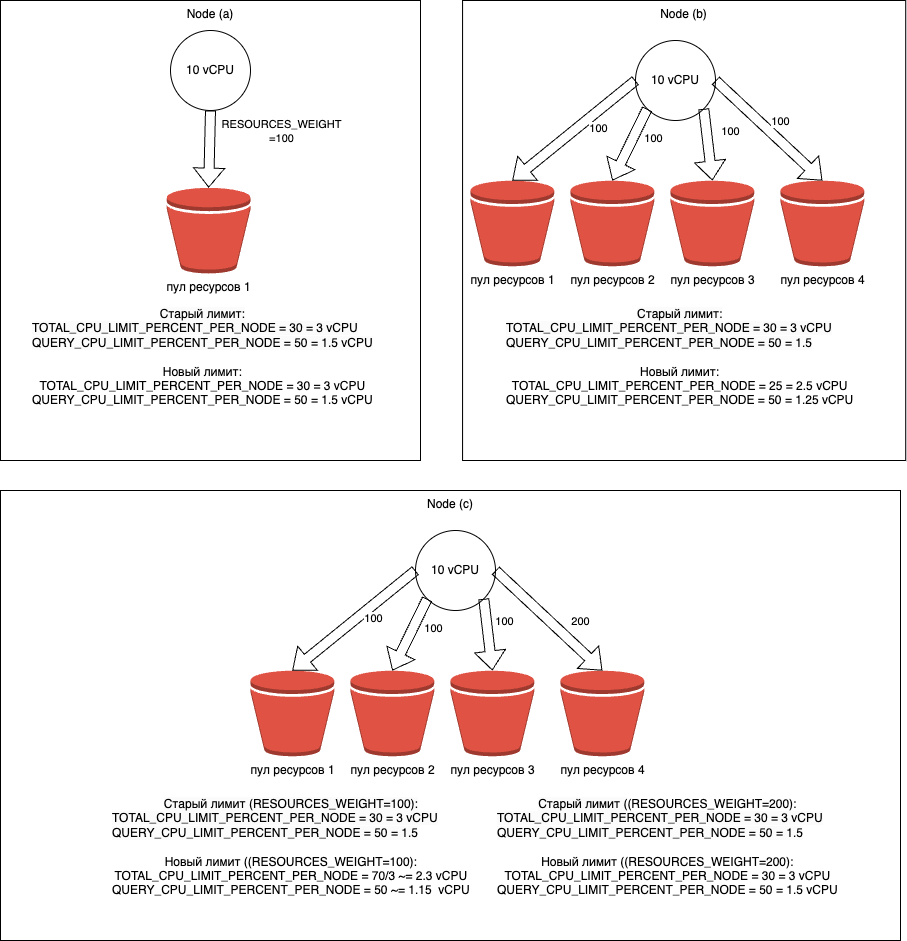
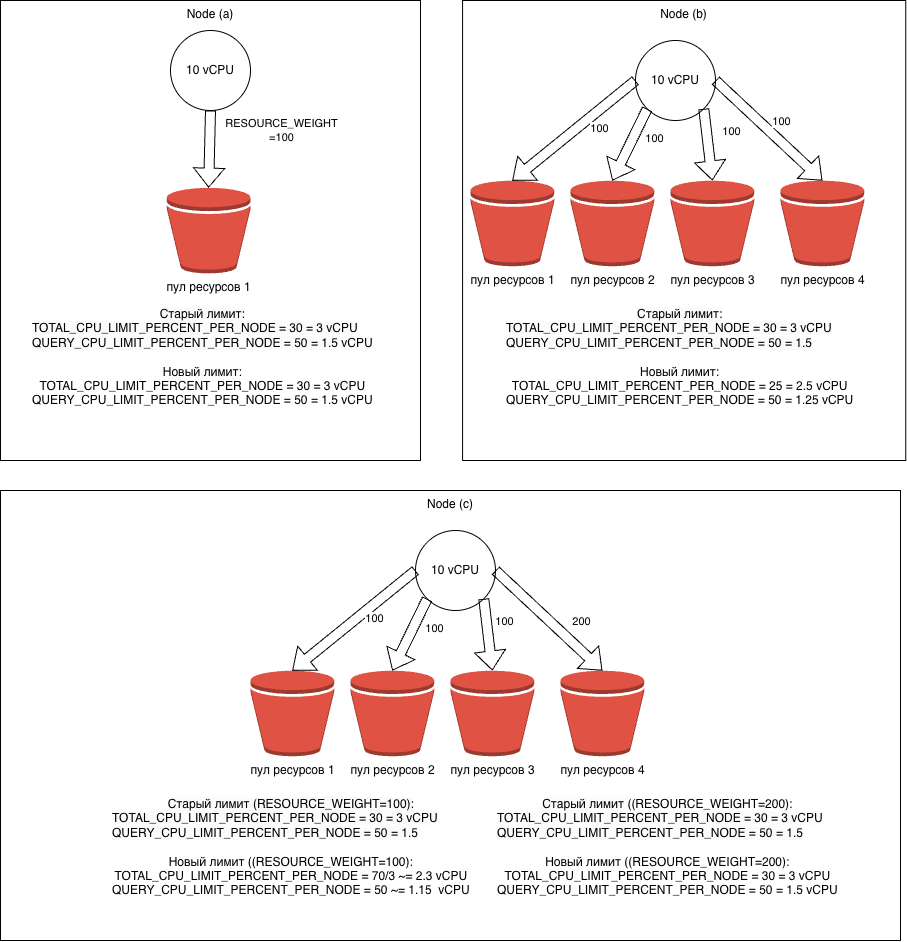
YDBDOCS-2562: fix resourceS_weight to resource_weight

diff --git a/ydb/docs/en/core/dev/resource-consumption-management.md b/ydb/docs/en/core/dev/resource-consumption-management.md
@@ -23,14 +23,14 @@ CREATE RESOURCE POOL olap WITH (
     CONCURRENT_QUERY_LIMIT=10,
     QUEUE_SIZE=1000,
     DATABASE_LOAD_CPU_THRESHOLD=80,
-    RESOURCES_WEIGHT=100,
+    RESOURCE_WEIGHT=100,
     QUERY_CPU_LIMIT_PERCENT_PER_NODE=50,
     TOTAL_CPU_LIMIT_PERCENT_PER_NODE=70
 )
 ```
 
 
-You can find the full list of resource pool parameters in the [{#T}](../yql/reference/syntax/create-resource-pool.md#parameters) reference. Some parameters are global for the entire database (for example, `CONCURRENT_QUERY_LIMIT`, `QUEUE_SIZE`, `DATABASE_LOAD_CPU_THRESHOLD`), while others apply only to a single compute node (for example, `QUERY_CPU_LIMIT_PERCENT_PER_NODE`, `TOTAL_CPU_LIMIT_PERCENT_PER_NODE`, `TOTAL_MEMORY_LIMIT_PERCENT_PER_NODE`). CPU can be shared among all pools in case of oversubscription on a single compute node using `RESOURCES_WEIGHT`.
+You can find the full list of resource pool parameters in the [{#T}](../yql/reference/syntax/create-resource-pool.md#parameters) reference. Some parameters are global for the entire database (for example, `CONCURRENT_QUERY_LIMIT`, `QUEUE_SIZE`, `DATABASE_LOAD_CPU_THRESHOLD`), while others apply only to a single compute node (for example, `QUERY_CPU_LIMIT_PERCENT_PER_NODE`, `TOTAL_CPU_LIMIT_PERCENT_PER_NODE`, `TOTAL_MEMORY_LIMIT_PERCENT_PER_NODE`). CPU can be shared among all pools in case of oversubscription on a single compute node using `RESOURCE_WEIGHT`.
 
 ![resource_pools](../_assets/resource_pool.png)
 
@@ -68,18 +68,18 @@ When a query enters a resource pool for which `DATABASE_LOAD_CPU_THRESHOLD` is s
 
 As with `CONCURRENT_QUERY_LIMIT`, when the specified load threshold is exceeded, queries are sent to the waiting queue.
 
-### Resource allocation according to RESOURCES_WEIGHT {#resources_weight}
+### Resource allocation according to RESOURCE_WEIGHT {#resources_weight}
 
 ![resource_pools](../_assets/resources_weight.png)
 
-The `RESOURCES_WEIGHT` parameter only takes effect in case of oversubscription and when there is more than one resource pool in the system. In the current implementation, `RESOURCES_WEIGHT` only affects the allocation of `vCPU` resources. When queries appear in a resource pool, it starts participating in resource allocation. For this, the pools recalculate their limits according to the [Max-min fairness](https://en.wikipedia.org/wiki/Max-min_fairness) algorithm. The actual resource redistribution is performed on each compute node individually, as shown in the figure above.
+The `RESOURCE_WEIGHT` parameter only takes effect in case of oversubscription and when there is more than one resource pool in the system. In the current implementation, `RESOURCE_WEIGHT` only affects the allocation of `vCPU` resources. When queries appear in a resource pool, it starts participating in resource allocation. For this, the pools recalculate their limits according to the [Max-min fairness](https://en.wikipedia.org/wiki/Max-min_fairness) algorithm. The actual resource redistribution is performed on each compute node individually, as shown in the figure above.
 
 Suppose we have a node in the system with $10 vCPU$ available. The following limits are set:
 
 - $TOTAL_CPU_LIMIT_PERCENT_PER_NODE = 30$,
 - $QUERY_CPU_LIMIT_PERCENT_PER_NODE = 50$.
 
-In this case, the resource pool will have a limit of $3 vCPU$ per node and $1.5 vCPU$ per query in this pool (figure *a*). If there are 4 such pools in the system and they all try to use maximum resources, this would amount to $12 vCPU$, which exceeds the limit of available resources on the node ($10 vCPU$). In this case, `RESOURCES_WEIGHT` takes effect, and each pool will be allocated $2.5 vCPU$ (figure *b*).
+In this case, the resource pool will have a limit of $3 vCPU$ per node and $1.5 vCPU$ per query in this pool (figure *a*). If there are 4 such pools in the system and they all try to use maximum resources, this would amount to $12 vCPU$, which exceeds the limit of available resources on the node ($10 vCPU$). In this case, `RESOURCE_WEIGHT` takes effect, and each pool will be allocated $2.5 vCPU$ (figure *b*).
 
 If you need to increase the allocated resources for a specific pool, you can change its weight, for example, to 200. Then this pool will get $3 vCPU$, and the remaining pools will equally share the remaining $7 vCPU$, which amounts to $\frac{7}{3} vCPU$ per pool (figure *c*).
 
@@ -99,7 +99,7 @@ CREATE RESOURCE POOL default WITH (
     CONCURRENT_QUERY_LIMIT=-1,
     QUEUE_SIZE=-1,
     DATABASE_LOAD_CPU_THRESHOLD=-1,
-    RESOURCES_WEIGHT=-1,
+    RESOURCE_WEIGHT=-1,
     TOTAL_MEMORY_LIMIT_PERCENT_PER_NODE=-1,
     QUERY_CPU_LIMIT_PERCENT_PER_NODE=-1,
     TOTAL_CPU_LIMIT_PERCENT_PER_NODE=-1
@@ -200,7 +200,7 @@ CREATE RESOURCE POOL olap WITH (
     CONCURRENT_QUERY_LIMIT=20,
     QUEUE_SIZE=100,
     DATABASE_LOAD_CPU_THRESHOLD=80,
-    RESOURCES_WEIGHT=20,
+    RESOURCE_WEIGHT=20,
     QUERY_CPU_LIMIT_PERCENT_PER_NODE=80,
     TOTAL_CPU_LIMIT_PERCENT_PER_NODE=100
 );
@@ -208,7 +208,7 @@ CREATE RESOURCE POOL olap WITH (
 CREATE RESOURCE POOL the_ceo WITH (
     CONCURRENT_QUERY_LIMIT=20,
     QUEUE_SIZE=100,
-    RESOURCES_WEIGHT=100,
+    RESOURCE_WEIGHT=100,
     QUERY_CPU_LIMIT_PERCENT_PER_NODE=100,
     TOTAL_CPU_LIMIT_PERCENT_PER_NODE=100
 );

diff --git a/ydb/docs/ru/core/dev/resource-consumption-management.md b/ydb/docs/ru/core/dev/resource-consumption-management.md
@@ -22,13 +22,13 @@ CREATE RESOURCE POOL olap WITH (
     CONCURRENT_QUERY_LIMIT=10,
     QUEUE_SIZE=1000,
     DATABASE_LOAD_CPU_THRESHOLD=80,
-    RESOURCES_WEIGHT=100,
+    RESOURCE_WEIGHT=100,
     QUERY_CPU_LIMIT_PERCENT_PER_NODE=50,
     TOTAL_CPU_LIMIT_PERCENT_PER_NODE=70
 )
 ```
 
-Ознакомиться с полным перечнем параметров пулов ресурсов можно в справке по [{#T}](../yql/reference/syntax/create-resource-pool.md#parameters). Часть параметров является глобальными для всей базы данных (например, `CONCURRENT_QUERY_LIMIT`, `QUEUE_SIZE`, `DATABASE_LOAD_CPU_THRESHOLD`), а другие — применяются только к одному вычислительному узлу (например, `QUERY_CPU_LIMIT_PERCENT_PER_NODE`, `TOTAL_CPU_LIMIT_PERCENT_PER_NODE`, `TOTAL_MEMORY_LIMIT_PERCENT_PER_NODE`). Между всеми пулами может разделяться CPU в случае переподписки на одном вычислительном узле с помощью `RESOURCES_WEIGHT`.
+Ознакомиться с полным перечнем параметров пулов ресурсов можно в справке по [{#T}](../yql/reference/syntax/create-resource-pool.md#parameters). Часть параметров является глобальными для всей базы данных (например, `CONCURRENT_QUERY_LIMIT`, `QUEUE_SIZE`, `DATABASE_LOAD_CPU_THRESHOLD`), а другие — применяются только к одному вычислительному узлу (например, `QUERY_CPU_LIMIT_PERCENT_PER_NODE`, `TOTAL_CPU_LIMIT_PERCENT_PER_NODE`, `TOTAL_MEMORY_LIMIT_PERCENT_PER_NODE`). Между всеми пулами может разделяться CPU в случае переподписки на одном вычислительном узле с помощью `RESOURCE_WEIGHT`.
 
 ![resource_pools](../_assets/resource_pool.png)
 
@@ -64,18 +64,18 @@ Issues:
 
 Как и в случае `CONCURRENT_QUERY_LIMIT`, при превышении указанного порога нагрузки запросы отправляются в очередь ожидания.
 
-### Распределение ресурсов в соответствии с RESOURCES_WEIGHT {#resources_weight}
+### Распределение ресурсов в соответствии с RESOURCE_WEIGHT {#resources_weight}
 
 ![resource_pools](../_assets/resources_weight.png)
 
-Параметр `RESOURCES_WEIGHT` начинает работать только в случае переподписки и при наличии более одного пула ресурсов в системе. В текущей реализации `RESOURCES_WEIGHT` влияет только на распределение ресурсов `vCPU`. Когда в пуле ресурсов появляются запросы, он начинает участвовать в распределении ресурсов. Для этого в пулах происходит перерасчёт лимитов согласно алгоритму [Max-min fairness](https://en.wikipedia.org/wiki/Max-min_fairness). Само перераспределение ресурсов выполняется на каждом вычислительном узле индивидуально, как показано на рисунке выше.
+Параметр `RESOURCE_WEIGHT` начинает работать только в случае переподписки и при наличии более одного пула ресурсов в системе. В текущей реализации `RESOURCE_WEIGHT` влияет только на распределение ресурсов `vCPU`. Когда в пуле ресурсов появляются запросы, он начинает участвовать в распределении ресурсов. Для этого в пулах происходит перерасчёт лимитов согласно алгоритму [Max-min fairness](https://en.wikipedia.org/wiki/Max-min_fairness). Само перераспределение ресурсов выполняется на каждом вычислительном узле индивидуально, как показано на рисунке выше.
 
 Допустим, у нас есть узел в системе с доступными $10 vCPU$. Установлены ограничения:
 
 - $TOTAL\_CPU\_LIMIT\_PERCENT\_PER\_NODE = 30$,
 - $QUERY\_CPU\_LIMIT\_PERCENT\_PER\_NODE = 50$.
 
-В этом случае у пула ресурсов будет ограничение $3 vCPU$ на узел и $1.5 vCPU$ на один запрос в этом пуле (рисунок *a*). Если в системе существует 4 таких пула, и все они пытаются использовать максимальные ресурсы, это составит $12 vCPU$, что превышает предел доступных ресурсов на узле ($10 vCPU$). В этом случае начинают действовать `RESOURCES_WEIGHT`, и каждому пулу будет выделено по $2.5 vCPU$ (рисунок *b*).
+В этом случае у пула ресурсов будет ограничение $3 vCPU$ на узел и $1.5 vCPU$ на один запрос в этом пуле (рисунок *a*). Если в системе существует 4 таких пула, и все они пытаются использовать максимальные ресурсы, это составит $12 vCPU$, что превышает предел доступных ресурсов на узле ($10 vCPU$). В этом случае начинают действовать `RESOURCE_WEIGHT`, и каждому пулу будет выделено по $2.5 vCPU$ (рисунок *b*).
 
 Если необходимо увеличить выделяемые ресурсы для конкретного пула, можно изменить его вес, например, на 200. Тогда этот пул получит $3 vCPU$, а остальные пулы поделят поровну оставшиеся $7 vCPU$, что составит $\frac{7}{3} vCPU$ на каждый пул (рисунок *c*).
 
@@ -94,7 +94,7 @@ CREATE RESOURCE POOL default WITH (
     CONCURRENT_QUERY_LIMIT=-1,
     QUEUE_SIZE=-1,
     DATABASE_LOAD_CPU_THRESHOLD=-1,
-    RESOURCES_WEIGHT=-1,
+    RESOURCE_WEIGHT=-1,
     TOTAL_MEMORY_LIMIT_PERCENT_PER_NODE=-1,
     QUERY_CPU_LIMIT_PERCENT_PER_NODE=-1,
     TOTAL_CPU_LIMIT_PERCENT_PER_NODE=-1
@@ -183,7 +183,7 @@ CREATE RESOURCE POOL olap WITH (
     CONCURRENT_QUERY_LIMIT=20,
     QUEUE_SIZE=100,
     DATABASE_LOAD_CPU_THRESHOLD=80,
-    RESOURCES_WEIGHT=20,
+    RESOURCE_WEIGHT=20,
     QUERY_CPU_LIMIT_PERCENT_PER_NODE=80,
     TOTAL_CPU_LIMIT_PERCENT_PER_NODE=100
 );
@@ -191,7 +191,7 @@ CREATE RESOURCE POOL olap WITH (
 CREATE RESOURCE POOL the_ceo WITH (
     CONCURRENT_QUERY_LIMIT=20,
     QUEUE_SIZE=100,
-    RESOURCES_WEIGHT=100,
+    RESOURCE_WEIGHT=100,
     QUERY_CPU_LIMIT_PERCENT_PER_NODE=100,
     TOTAL_CPU_LIMIT_PERCENT_PER_NODE=100
 );